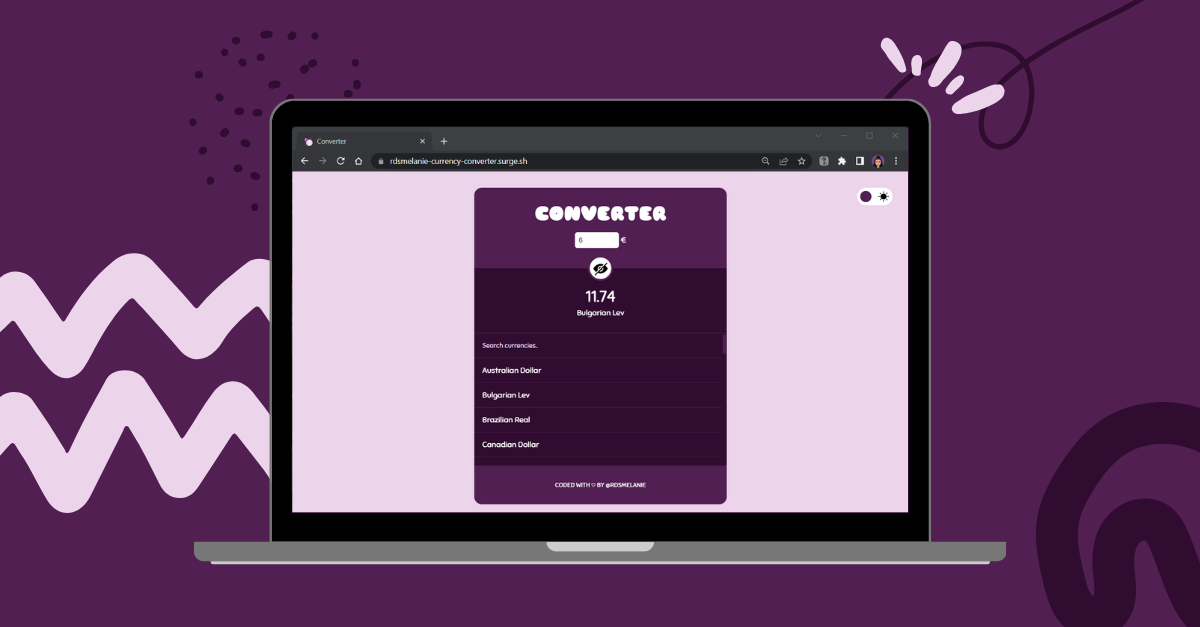
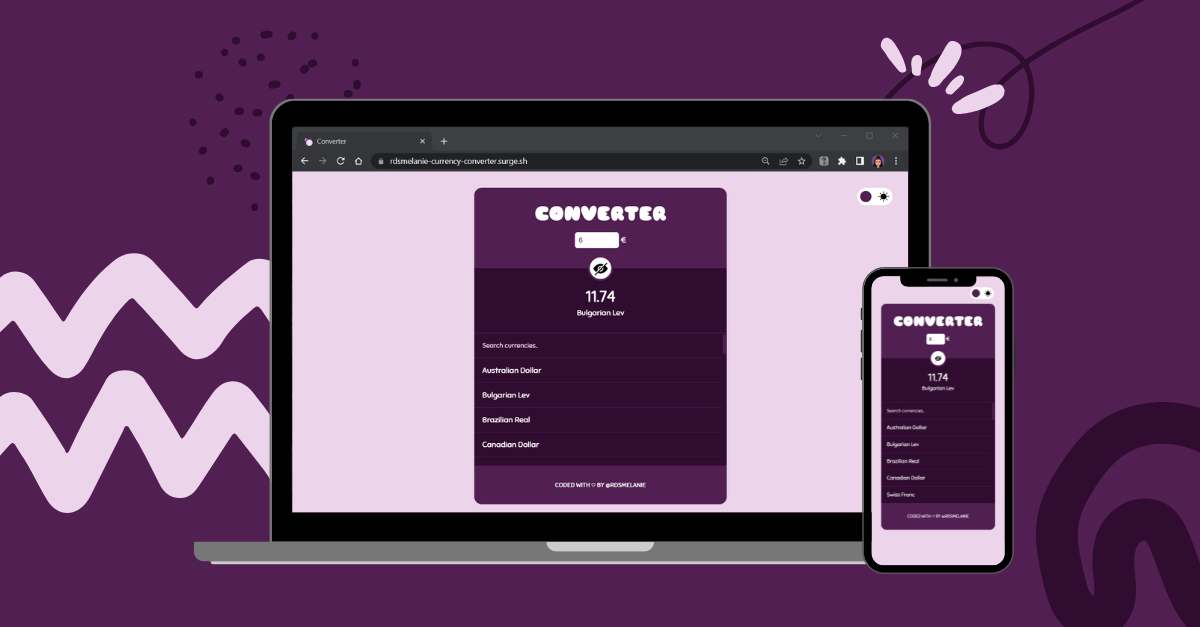
Responsive mobile

Changed region(s): [[0.7092, 0.4242, 0.8633, 0.9394]]

diff --git a/src/components/Toggler/styles.scss b/src/components/Toggler/styles.scss
@@ -29,3 +29,13 @@
     object-fit: cover;
   }
 }
+
+@media screen and (max-width: 500px) {
+  .toggler {
+    
+    img {
+    width: 20px;
+    height: 20px;
+   } 
+  }
+}

diff --git a/src/components/App/styles.scss b/src/components/App/styles.scss
@@ -10,7 +10,8 @@
 
 @media screen and (max-width: 500px) {
   .app {
-    width: 80%;
+    margin-top: 5rem;
+    width: 85%;
   }
 }
   
